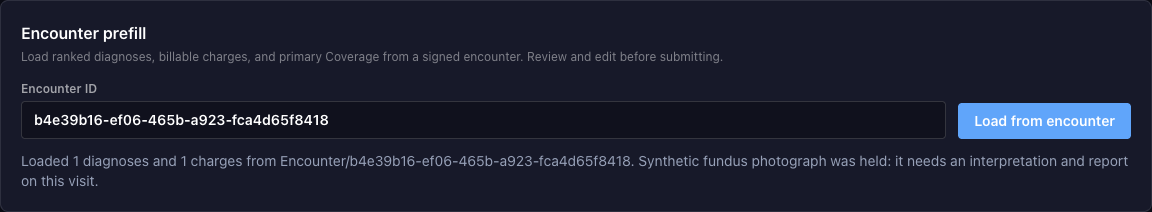
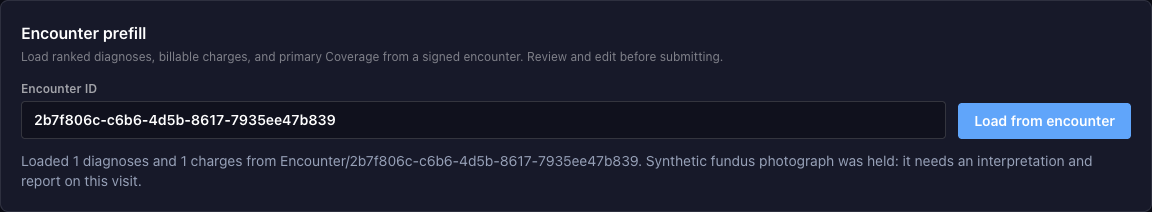
Preserve valid proposals beside malformed Basic rows

Changed region(s): [[0.2812, 0.7358, 1.0, 0.7925], [0.0312, 0.5377, 0.3125, 0.5943], [0.0, 0.8208, 0.125, 0.8774]]

diff --git a/mcp/tests/claimInterpretationHold.test.ts b/mcp/tests/claimInterpretationHold.test.ts
@@ -154,7 +154,7 @@ test("H9 signed OCT and photograph charges are kept with one advisory pair warni
   assert.deepEqual(draft.warnings, ["Synthetic photograph and Synthetic OCT: usually not billed together on the same day — document why both were needed."]);
 });
 
-test("H9 same-day signed charge on another encounter appears in the advisory", async () => {
+test("H9/H15 same-day signed charge on another encounter survives an unrelated malformed proposal", async () => {
   const { fhir, resources, photo, proposal } = fixture({ reportStatus: "final" });
   const otherEncounter: Encounter = {
     resourceType: "Encounter", id: "other-visit", status: "finished", class: {},
@@ -176,6 +176,8 @@ test("H9 same-day signed charge on another encounter appears in the advisory", a
     { resourceType: "DiagnosticReport", id: "other-oct-report", status: "final", code: {},
       encounter: { reference: "Encounter/other-visit" }, conclusion: "Synthetic OCT interpretation",
       media: [{ link: { reference: "Media/other-oct-image" } }] },
+    { ...buildProtocolBasic({ id: "unrelated-malformed" }, PROTOCOL_BASIC_CODES.chargeProposal),
+      id: "malformed-basic", extension: [] } as Basic,
   );
   const draft = await buildClaimDraft(fhir, "visit");
   assert.deepEqual(draft.charges.map(row => row.id), ["photo", "visit-charge"]);

diff --git a/mcp/src/claims/interpretation-hold.ts b/mcp/src/claims/interpretation-hold.ts
@@ -64,7 +64,15 @@ export async function loadClaimProposals(fhir: FhirSearchClient): Promise<Charge
     code: `https://odos2020.com/fhir/CodeSystem/odos-protocol-module|${PROTOCOL_BASIC_CODES.chargeProposal}`,
     _count: "100",
   }, bounds);
-  return rows.map(row => parseProtocolBasic<ChargeProposal>(row, PROTOCOL_BASIC_CODES.chargeProposal));
+  const proposals: ChargeProposal[] = [];
+  for (const row of rows) {
+    try {
+      proposals.push(parseProtocolBasic<ChargeProposal>(row, PROTOCOL_BASIC_CODES.chargeProposal));
+    } catch {
+      continue;
+    }
+  }
+  return proposals;
 }
 
 export async function loadClaimHoldContext(fhir: FhirSearchClient, lines: readonly ChargeItem[]): Promise<ClaimHoldContext> {

diff --git a/docs/build-log/followup-s3c2c2b4-claim-hold/sealed-bundle.md b/docs/build-log/followup-s3c2c2b4-claim-hold/sealed-bundle.md
@@ -59,18 +59,19 @@ All changed guards were broken, observed red, restored, and observed green. Entr
 | H12 held-line UI and 409 | `2/1/1/1` | `2/2/0/0` |
 | H13 fee-search pin | `1/0/1/1` | `1/1/0/0` |
 | H14 unloadable proposal fallback | `2/0/2/1` | `2/2/0/0` |
+| H15 malformed unrelated proposal preserves valid rows | `1/0/1/1` | `1/1/0/0` |
 
-H11 used service `2026-09-23T23:30:00-04:00` and an interpretation `2026-09-24T01:00:00Z`; naive UTC-day conversion incorrectly matches, while the literal prefixes differ. H10 compared Claim.MD and Stedi response, persistence and payload bytes against base fixtures. Submit proofs used **handler-level fake Claim.MD and Stedi adapters only**; no real clearinghouse call occurred. Partial holds created no held ChargeItem and sent no held line; all-held produced 409 with zero writes and adapter calls.
+H11 used service `2026-09-23T23:30:00-04:00` and an interpretation `2026-09-24T01:00:00Z`; naive UTC-day conversion incorrectly matches, while the literal prefixes differ. H15 added a malformed, unrelated proposal Basic next to valid same-day proposals: the old all-or-nothing parser dropped the OCT/photo advisory; per-row parsing preserved it. H10 compared Claim.MD and Stedi response, persistence and payload bytes against base fixtures. Submit proofs used **handler-level fake Claim.MD and Stedi adapters only**; no real clearinghouse call occurred. Partial holds created no held ChargeItem and sent no held line; all-held produced 409 with zero clinical resource writes and zero adapter calls, plus the required failure audit.
 
 ## Live and browser proof
 
-The dedicated fresh stack's server `baseUrl` and every lane's `MEDPLUM_BASE_URL` were exactly `http://localhost:18103/`. Healthcheck passed on **attempt 1/90**, polling every 2 seconds. In required order: smoke `12/12 pass, 0 fail, 0 skipped`; integration `218/218 pass, 0 fail, 0 skipped`; role repair with `GITHUB_ACTIONS=true` only on that command created 3 policies; sync matched provider, staff, admin and composite with 0 updates; authorization `78/78 pass, 0 fail, 0 skipped`. All exited 0.
+The final-source dedicated fresh stack's server `baseUrl` and every lane's `MEDPLUM_BASE_URL` were exactly `http://localhost:18103/`. Healthcheck passed on **attempt 5/90**, polling every 2 seconds. In required order: smoke `12/12 pass, 0 fail, 0 skipped`; integration `218/218 pass, 0 fail, 0 skipped`; role repair with `GITHUB_ACTIONS=true` only on that command created 3 policies; sync matched provider, staff, admin and composite with 0 updates; authorization `78/78 pass, 0 fail, 0 skipped`. All exited 0.
 
-The fixture created a synthetic fee first, then a signed visit, finalized proposal, fundus ChargeItem, completed Media, final DiagnosticReport, coverage and ordinary visit line. The **human composite** caller's served draft returned 200 with the imaging line kept and no hold warning. For the same report version, `If-Match` and retraction payload, the composite raw FHIR update returned **403**, leaving the report final; the **human provider-only** caller (one provider AccessPolicy, patient compartment bound to the synthetic patient) returned **200** and set it to `entered-in-error`. This paired control isolates the 403 to caller role composition, consistent with kickoff §8. The composite then read the served draft (200): fundus line excluded, ordinary visit line kept, exact warning `Synthetic fundus photograph was held: it needs an interpretation and report on this visit.` The single-role human staff caller also read the proposal Basic and the after-retraction draft (both 200), with the same hold warning.
+The fixture created a synthetic fee first, then a signed visit, finalized proposal, fundus ChargeItem, completed Media, final DiagnosticReport, coverage and ordinary visit line. A malformed unrelated proposal Basic was then stored; the staff caller still listed the valid named proposal. The **human composite** caller's served draft returned 200 with the imaging line kept and no hold warning. For the same report version, `If-Match` and retraction payload, the composite raw FHIR update returned **403**, leaving the report final; the **human provider-only** caller (one provider AccessPolicy, patient compartment bound to the synthetic patient) returned **200** and set it to `entered-in-error`. This paired control isolates the 403 to caller role composition, consistent with kickoff §8. The composite then read the served draft (200): fundus line excluded, ordinary visit line kept, exact warning `Synthetic fundus photograph was held: it needs an interpretation and report on this visit.` The single-role human staff caller also read the proposal Basic and the after-retraction draft (both 200), with the same hold warning.
 
-Browser proof used the current served Vite/claims route and synthetic composite human session, loaded the encounter and displayed the warning with zero page errors. A detached read-only base `c61c5883` server loaded the same already-retracted encounter: two charges, no warning, zero page errors. `evidence/draft-before.png` and `evidence/draft-after.png` are matching 1152×212 scoped browser captures. `evidence/result-preview.png` shows the production result component populated by a **synthetic handler-level fake-adapter response**; it is not a real clearinghouse result. Images were visually checked for synthetic-only content and are referenced in the PR's before/after block.
+Browser proof used the final-source served Vite/claims route and synthetic composite human session, loaded the encounter and displayed the warning with zero page errors. A detached read-only base `c61c5883` server loaded the same already-retracted encounter: two charges, no warning, zero page errors. `evidence/draft-before.png` and `evidence/draft-after.png` are matching 1152×212 scoped browser captures from that identical synthetic encounter. `evidence/result-preview.png` shows the production result component populated by a **synthetic handler-level fake-adapter response**; it is not a real clearinghouse result. Images were visually checked for synthetic-only content and are referenced in the PR's before/after block.
 
-Harness-only corrections: this host required `docker-compose`; one operator login returned a transient 400 before an identical retry succeeded; initial role selection matched two policies until the exact single-role tag was chosen; a client-credentials staff principal could read Basic but received 401 at the human claims route, so single-role human staff was invited and verified; the initial MCP runtime service lacked membership read, so a separate disposable project-admin runtime service fixed startup. None changed product code or expected results.
+Harness-only corrections: this host required `docker-compose`; one operator login returned a transient 400 before an identical retry succeeded; initial role selection matched two policies until the exact single-role tag was chosen; a client-credentials staff principal could read Basic but received 401 at the human claims route, so single-role human staff was invited and verified; the initial MCP runtime service lacked membership read, so a separate disposable project-admin runtime service fixed startup. On the final-source rerun, the MCP server's first start omitted the signing-key path, and the first browser script call omitted `--import tsx`; both were corrected in the ignored harness without changing product requests or expected values.
 
 Not in this slice: Stedi resubmission; unmatched hand-typed imaging codes; per-concept precision; modifiers; cross-panel refresh; staff Follow-up Accept 502. Real clearinghouse behavior is untested by design. Independent evaluation, bot reviews at final head, merge and deployment are follow-ups. Task containers and processes are stopped in the final handoff, with `docker ps` quoted there.
 
